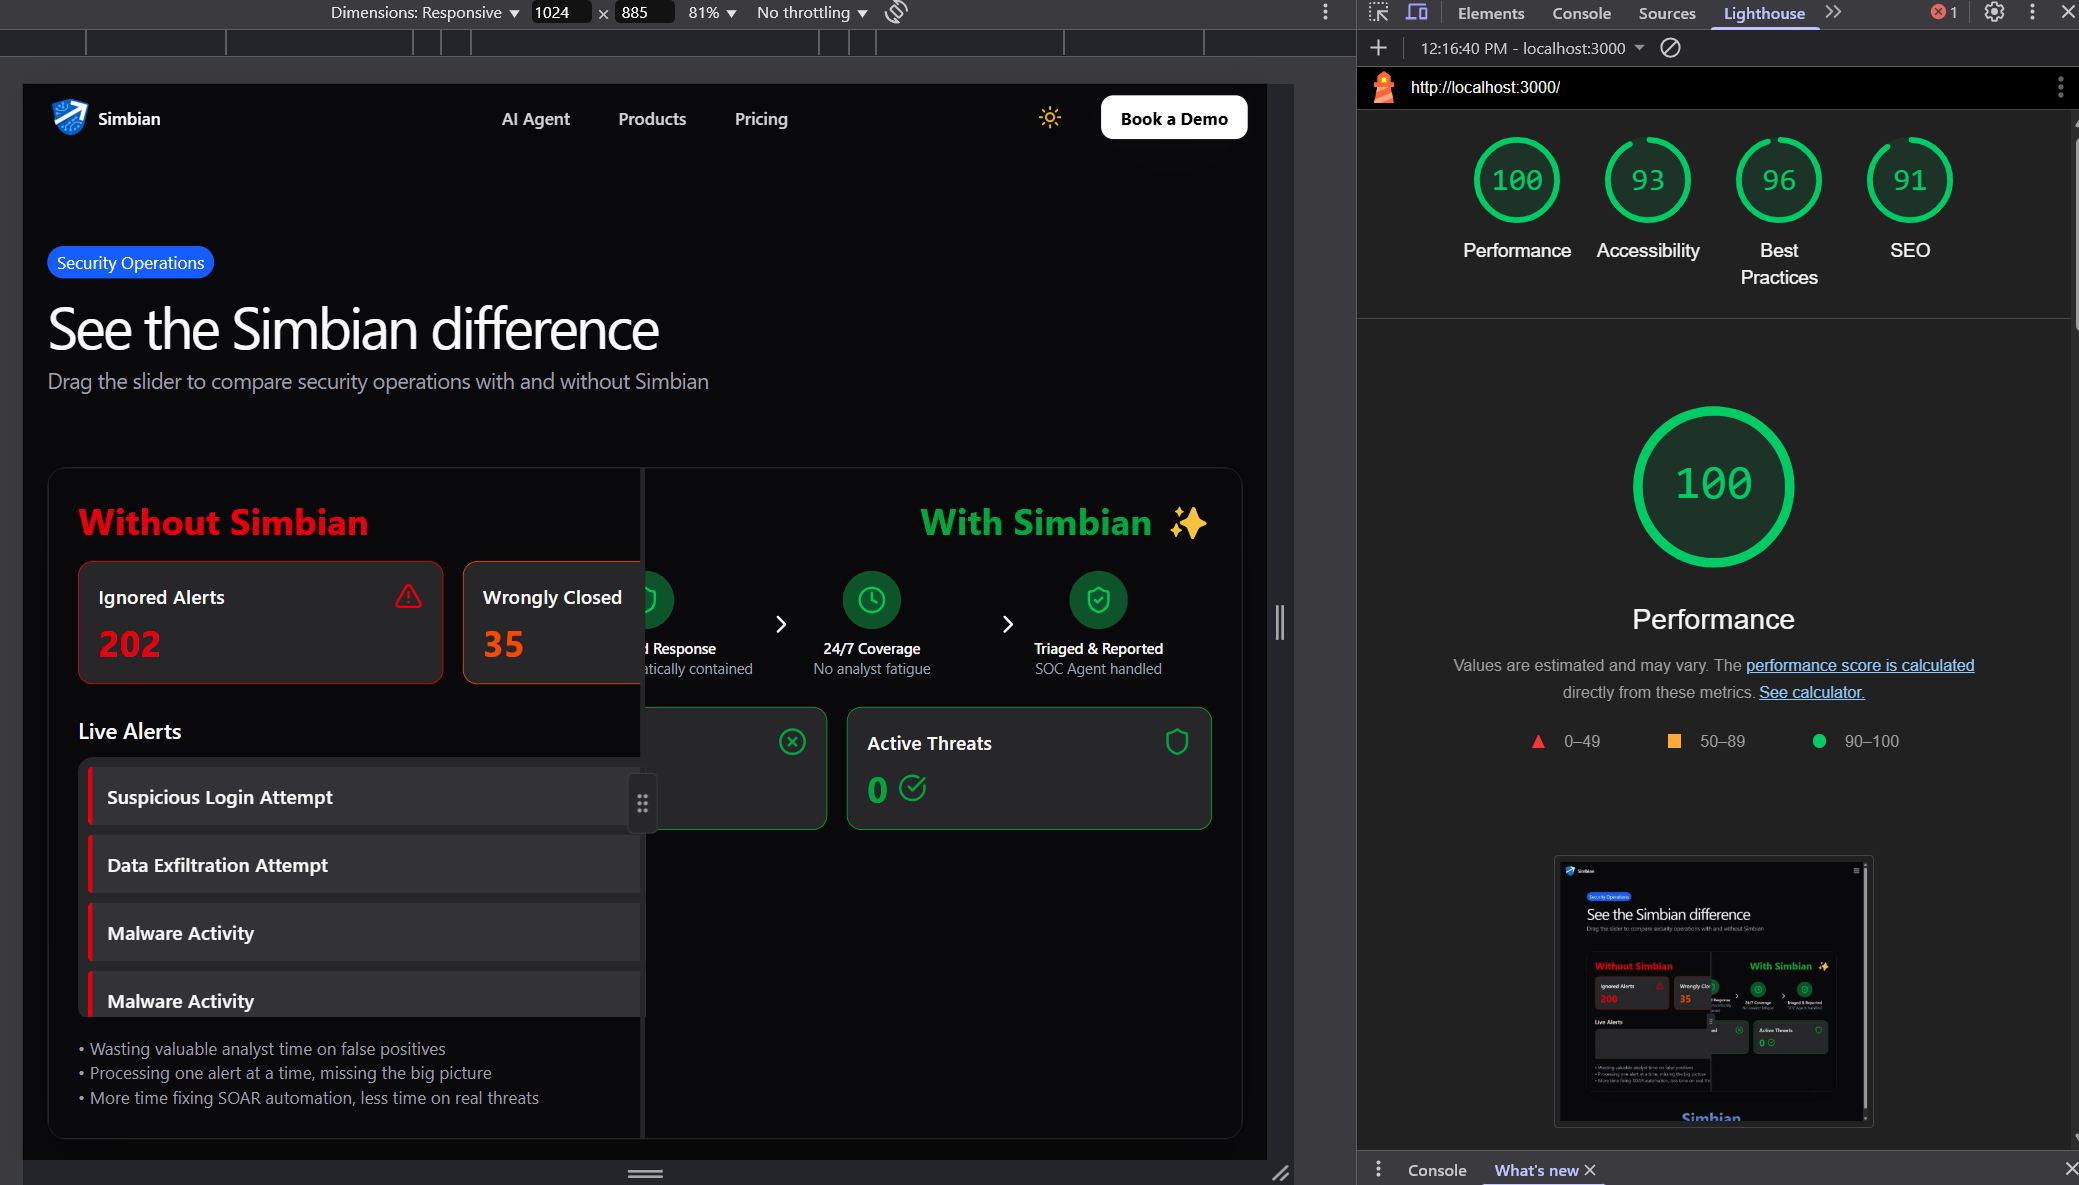
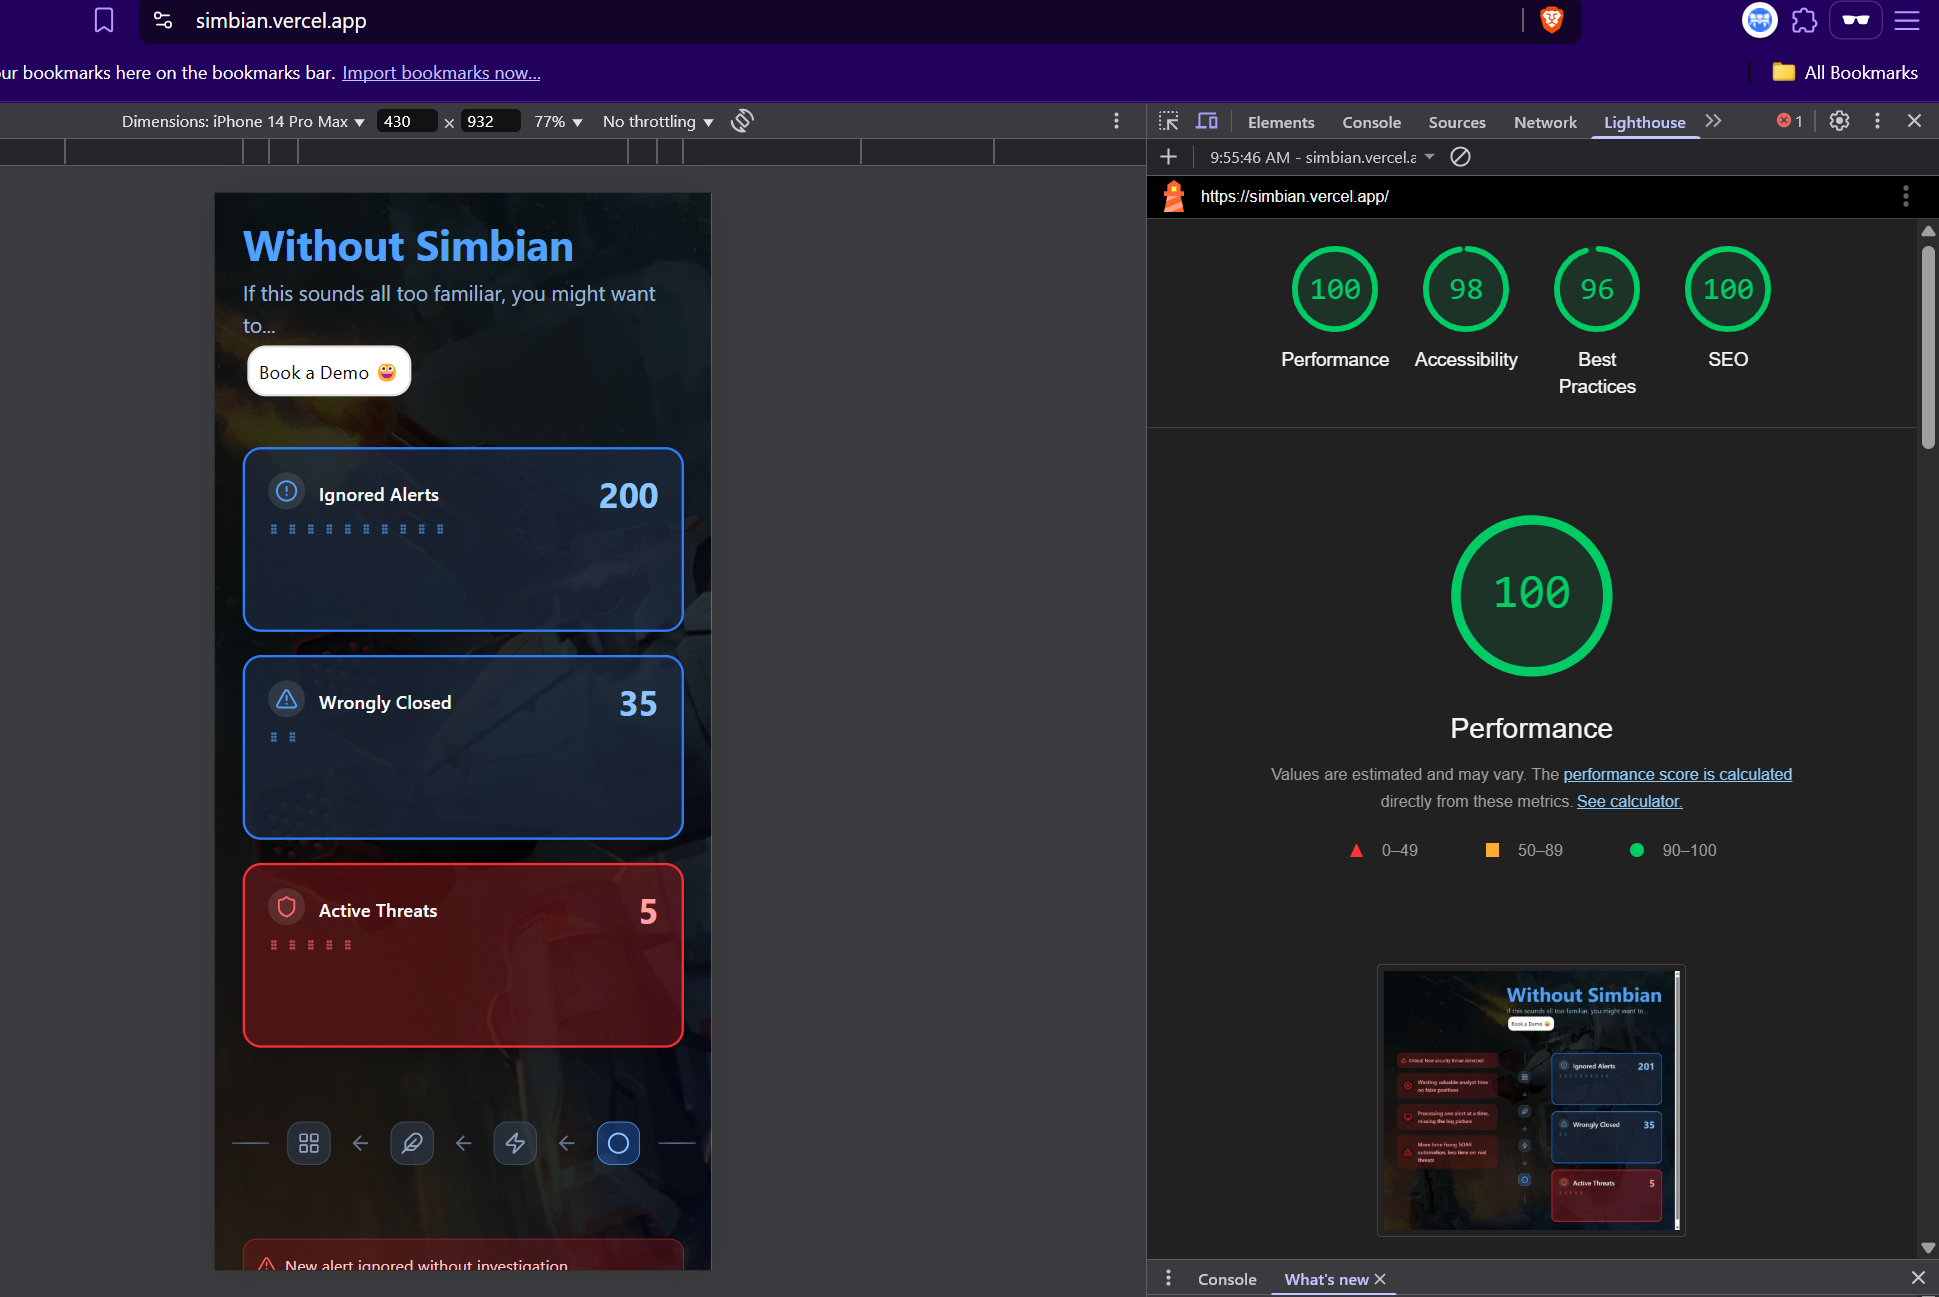
Readme.md' updated WRT new UI2.0

diff --git a/README.md b/README.md
@@ -1,17 +1,18 @@
 # Simbian Security Operations Comparison Section Assignment
 
-Developed a modern and interactive section for Simbian Security, allowing users to clearly see the difference between using Simbian Security and not using it. I designed a comparison slider that users can interact with to visualize the improvements Simbian Security provides.
+Developed a modern and interactive section for Simbian Security, allowing users to clearly see the difference between using Simbian Security and not using it. In this section users can compare the difference between using Simbian Security and not using it. The section is built using Next.js, Tailwind CSS, and Framer Motion. The section is fully responsive and can be used on mobile, tablet, and desktop. The section is also animated and smooth. The section is also dynamic and can be used to compare different scenarios.
 
 I added multiple components with motion-based animations while maintaining a consistent directory structure and naming convention. I used useState and useEffect hooks for state management and side effects, setting up the project in a way that's scalable and easy to maintain.
-
-![Dashboard Preview](public/Home.png)
-
-The project is built with the Next.js App Router, using TypeScript and Tailwind CSS for styling, as per the requirements. It has been deployed on Vercel.
 
 ### Areas of Improvement
 - Dynamic data fetching
 - Adding Graphs and charts for more insights
 - Using of ShadCN ui components for faster and smoother development process
+
+![Dashboard Preview](public/Home.png)
+
+The project is built with the Next.js App Router, using TypeScript and Tailwind CSS for styling, as per the requirements. It has been deployed on Vercel.
+
 
 ## ✨ Features
 
@@ -21,14 +22,11 @@ The project is built with the Next.js App Router, using TypeScript and Tailwind 
 - **Lucide React**: Icons provided by Lucide React
 - **Next-themes**: Dark/Light mode support with Next-themes
 - **Responsive Design**: Fully responsive layout that works on mobile, tablet, and desktop
-- **Dark/Light Mode**: System-aware theme with manual toggle option
 - **Smooth Animations**: Engaging motion effects using Framer Motion
 - **Modern UI Components**: Built with Tailwind CSS
 - **Comments Included**
 
 ### Dynamic Comparison View
-- Split-screen visualization
-- Draggable comparison slider
 - Animated transitions between states
 - Responsive layout adaptation
 - Status indicators
@@ -56,9 +54,6 @@ git clone <https://github.com/Nikhileshrana/simbian-assignment.git>
 ![Dashboard Preview](public/Tablet_Responsiveness.png)
 ### Mobile View
 ![Dashboard Preview](public/Mobile_Responsiveness.png)
-### Light Mode
-![Dashboard Preview](public/Light_Mode_Compatible.png)
-
 ### Light House Scores
 ![Dashboard Preview](public/Performance.png)
 
